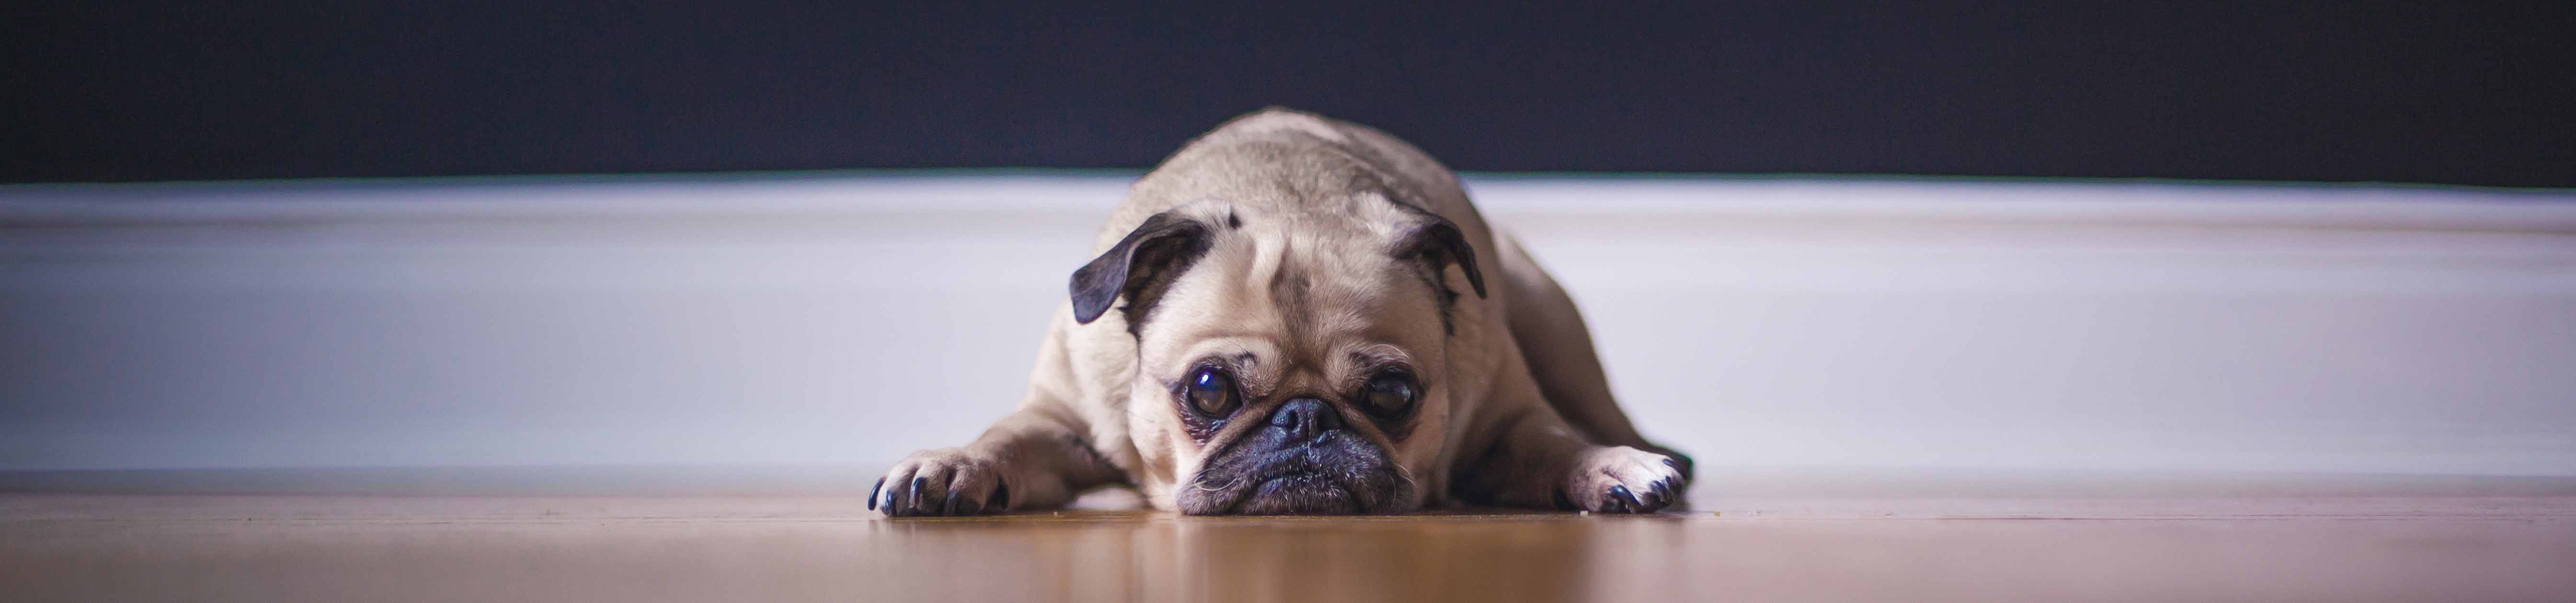
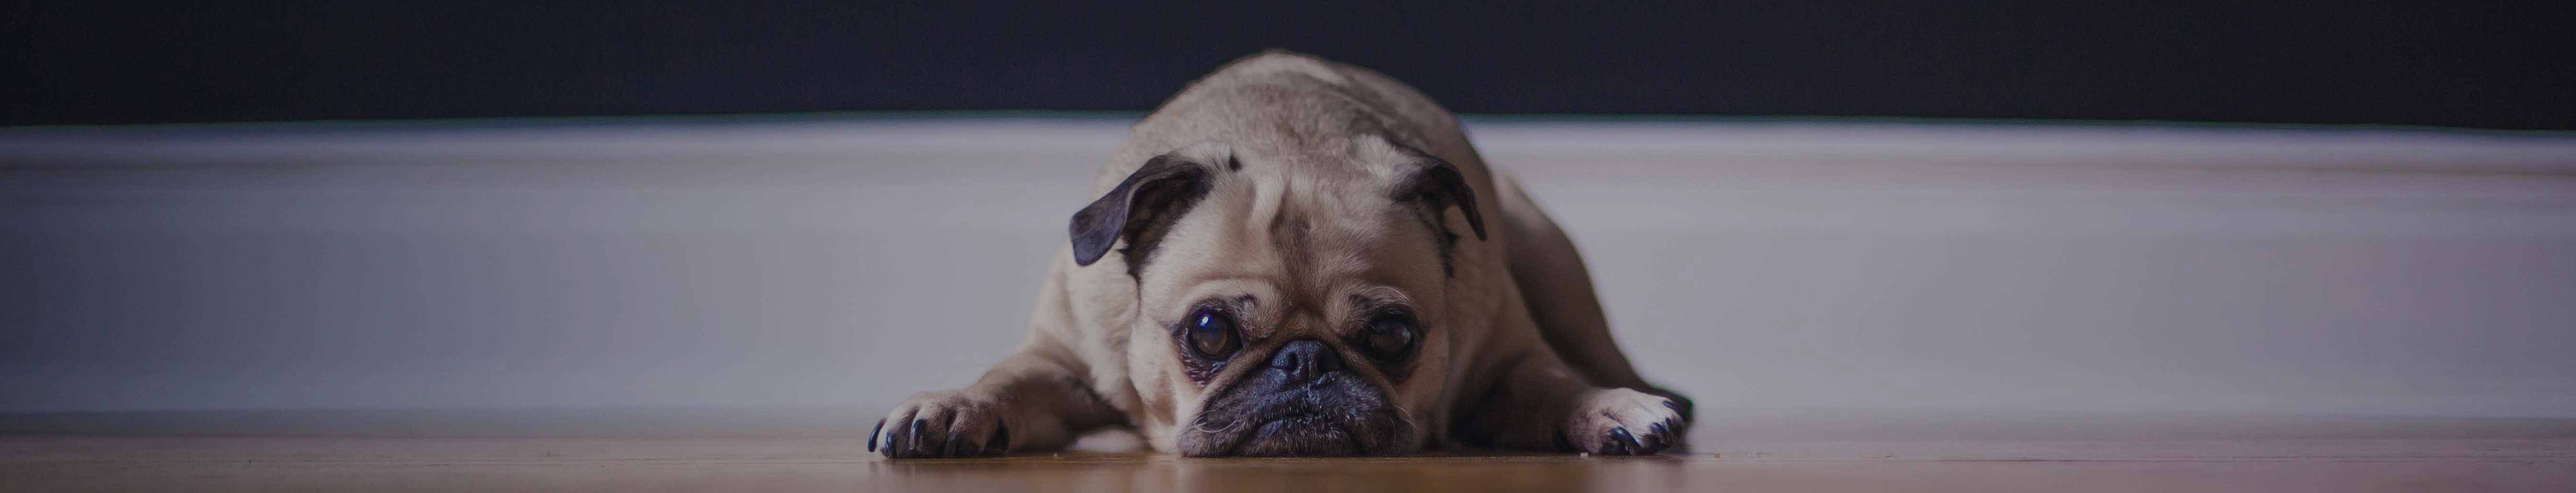
added footer and content
edited header photo and banner reserved for web

diff --git a/pattern-library.html b/pattern-library.html
@@ -624,6 +624,10 @@
         </div>
   </div>
 
+    <div class="pattern-desc milli island">
+      <div class="max-length"><p>  The banner should only be used on the homepage and should have a call to action button. It will not be displayed on the extra small or small screens. It will be displayed on the medium media query and up.</p>
+</div>
+    </div>
 
   
 
@@ -881,6 +885,10 @@
         </div>
   </div>
 
+    <div class="pattern-desc milli island">
+      <div class="max-length"><p>The footer is to be used on every page. Must contain copyright and links to pages.</p>
+</div>
+    </div>
 
   
 
@@ -907,7 +915,19 @@
 
           <div class="gutter">
             <div class="pattern-code milli island-1-2">
-              <code><pre>
+              <code><pre>&lt;footer class="footer"&gt;
+  &lt;div class="max-length island-1-2">
+    &lt;small class="block push-1-2">&#xA9;LOYAL RESCUE | ALL RIGHTS RESERVED&lt;/small>
+    &lt;nav>
+      &lt;ol class="nav list-group-inline push-0 milli">
+        &lt;li>&lt;a class="block pad-r-1-2" href="#home">Home&lt;/a>&lt;/li>
+        &lt;li>&lt;a class="block gutter-1-2" href="#adopt">Adopt&lt;/a>&lt;/li>
+        &lt;li>&lt;a class="block gutter-1-2" href="#foster">Foster&lt;/a>&lt;/li>
+        &lt;li>&lt;a class="block pad-l-1-2" href="#apply">Apply&lt;/a>&lt;/li>
+      &lt;/ol>
+    &lt;/nav>
+  &lt;/div>
+&lt;/footer>
 </pre></code>
             </div>
           </div>
@@ -1066,6 +1086,10 @@
         </div>
   </div>
 
+    <div class="pattern-desc milli island">
+      <div class="max-length"><p>The header image is to be displayed on all pages above the navigation.</p>
+</div>
+    </div>
 
   
 

diff --git a/patterns/banner/banner.css b/patterns/banner/banner.css
@@ -1,37 +1,46 @@
 .banner {
-  position: relative;
+  display: none;
 }
 
-img {
-  width: 100%;
-  background-size: cover;
-}
+@media only screen and (min-width: 38em) {
 
-p {
-  position: absolute;
-  bottom: 25%;
-  color: #fff;
-  left: 50%;
-  transform: translateX(-50%);
-}
+  .banner {
+    display: block;
+    position: relative;
+  }
 
-.btn {
-  position: absolute;
-  bottom: 10%;
-  left: 50%;
-  transform: translateX(-50%);
-}
+  img {
+    width: 100%;
+    background-size: cover;
+  }
 
-.btn-blue {
-  background-color: var(--color-secondary);
-  border-color: var(--color-secondary);
-  transition: all 500ms linear;
-  color: #fff;
-}
+  p {
+    position: absolute;
+    bottom: 20%;
+    color: #fff;
+    left: 50%;
+    transform: translateX(-50%);
+  }
 
-.btn-blue:hover {
-  border-color: #fff;
-  background-color: #fff;
+  .btn {
+    position: absolute;
+    bottom: 10%;
+    left: 50%;
+    transform: translateX(-50%);
+  }
 
-  color: var(--color-secondary);
+  .btn-blue {
+    background-color: var(--color-secondary);
+    border-color: var(--color-secondary);
+    transition: all 500ms linear;
+    color: #fff;
+  }
+
+  .btn-blue:hover {
+    border-color: #fff;
+    background-color: #fff;
+
+    color: var(--color-secondary);
+  }
+
 }

diff --git a/patterns/footer/footer.html b/patterns/footer/footer.html
@@ -1,0 +1,31 @@
+<!DOCTYPE html>
+<html lang="en-ca">
+<head>
+  <meta charset="utf-8">
+  <title>Navigation</title>
+  <meta name="viewport" content="width=device-width,initial-scale=1">
+  <link href="../../common/modules.css" rel="stylesheet">
+  <link href="../../common/grid.css" rel="stylesheet">
+  <link href="../../common/type.css" rel="stylesheet">
+  <link href="../../common/theme.css" rel="stylesheet">
+  <link href="https://fonts.googleapis.com/css?family=Source+Code+Pro:400,700" rel="stylesheet">
+  <link href="footer.css" rel="stylesheet">
+</head>
+<body>
+
+  <footer class="footer">
+    <div class="max-length island-1-2">
+      <small class="block push-1-2">©LOYAL RESCUE | ALL RIGHTS RESERVED</small>
+      <nav>
+        <ol class="nav list-group-inline push-0 milli">
+          <li><a class="block pad-r-1-2" href="#home">Home</a></li>
+          <li><a class="block gutter-1-2" href="#adopt">Adopt</a></li>
+          <li><a class="block gutter-1-2" href="#foster">Foster</a></li>
+          <li><a class="block pad-l-1-2" href="#apply">Apply</a></li>
+        </ol>
+      </nav>
+    </div>
+  </footer>
+
+</body>
+</html>

diff --git a/patterns/footer/footer.css b/patterns/footer/footer.css
@@ -1,0 +1,11 @@
+a {
+  color: #fff;
+}
+
+small {
+  color: #fff;
+}
+
+.footer {
+  background-color: var(--color-primary);
+}

diff --git a/patterns/banner/README.md b/patterns/banner/README.md
@@ -1,4 +1,1 @@
----
-banner: |
-  The banner should only be used on the homepage and should have a call to action button.
----
+  The banner should only be used on the homepage and should have a call to action button. It will not be displayed on the extra small or small screens. It will be displayed on the medium media query and up.

diff --git a/patterns/footer/README.md b/patterns/footer/README.md
@@ -1,0 +1,1 @@
+The footer is to be used on every page. Must contain copyright and links to pages.

diff --git a/patterns/header/README.md b/patterns/header/README.md
@@ -1,0 +1,1 @@
+The header image is to be displayed on all pages above the navigation.
